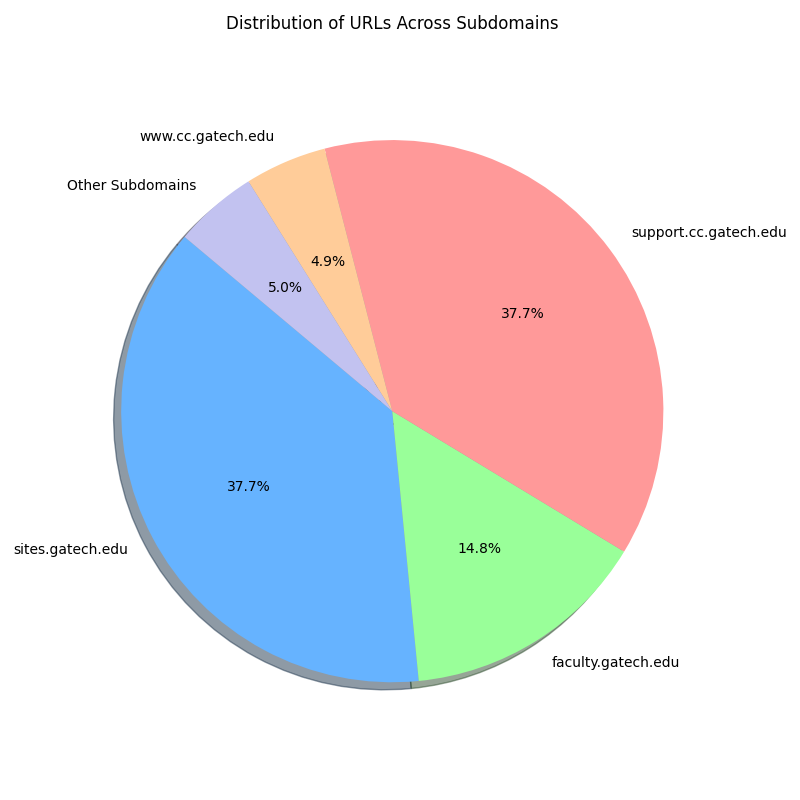
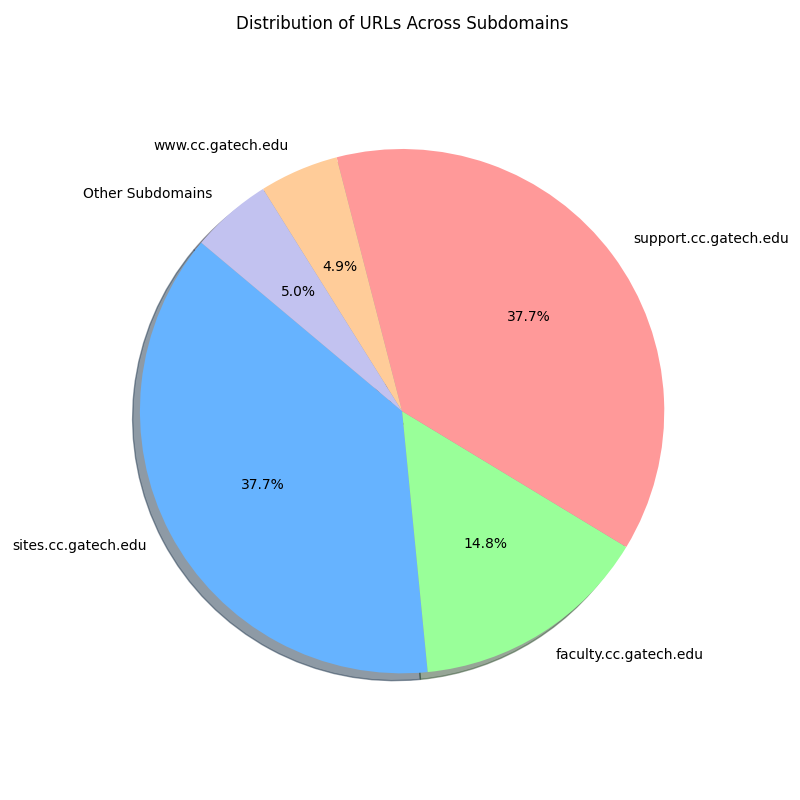
updating

diff --git a/satkp_crawler/spiders/satkp_spider.py b/satkp_crawler/spiders/satkp_spider.py
@@ -4,10 +4,11 @@ import matplotlib.pyplot as plt
 import json
 from urllib.parse import urljoin
 
+# Code inspired from the following sources:
 # Reference: https://docs.scrapy.org/en/latest/intro/tutorial.html
 # Reference: https://www.geeksforgeeks.org/implementing-web-scraping-python-scrapy/
 
-
+# Helpful doc links for Scrapy that I put here for my reference:
 # https://docs.scrapy.org/en/latest/topics/extensions.html#std-setting-CLOSESPIDER_TIMEOUT
 # https://www.scrapingbee.com/blog/crawling-python/
 # https://doc.scrapy.org/en/latest/topics/spiders.html#scrapy.Spider.start_requests
@@ -99,14 +100,11 @@ class SatkpSpider(scrapy.Spider):
         crawl_duration = end_time - self.crawler.stats.get_value('start_time').timestamp()
         crawl_speed = self.crawler.stats.get_value('pages_crawled') / (crawl_duration / 60)  # pages per minute
 
-        # Convert history lists to local variables for readability
         timestamps = self.crawler.stats.get_value('crawl_timestamps')
         pages_crawled_hist = self.crawler.stats.get_value('pages_crawled_history')
         urls_found_hist = self.crawler.stats.get_value('urls_found_history')
         keywords_hist = self.crawler.stats.get_value('keywords_extracted_history')
 
-        # Calculate the ratio: (#pages_crawled) / (#urls_found)
-        # If urls_found is zero at any index, ratio defaults to 0 to avoid division by zero
         ratio_list = []
         for pc, uf in zip(pages_crawled_hist, urls_found_hist):
             ratio_list.append(pc / uf if uf else 0)
@@ -114,40 +112,26 @@ class SatkpSpider(scrapy.Spider):
         plt.figure(figsize=(12, 10))
 
         # 1) Pages Crawled Over Time
-        plt.subplot(3, 2, 1)
-        plt.plot(timestamps, pages_crawled_hist)
-        plt.title('Pages Crawled Over Time')
-        plt.xlabel('Time (seconds)')
-        plt.ylabel('Pages Crawled')
+        plt.subplot(3, 2, 1); plt.plot(timestamps, pages_crawled_hist)
+        plt.title('Pages Crawled Over Time'); plt.xlabel('Time (seconds)'); plt.ylabel('Pages Crawled')
 
         # 2) URLs Found Over Time
-        plt.subplot(3, 2, 2)
-        plt.plot(timestamps, urls_found_hist)
-        plt.title('URLs Found Over Time')
-        plt.xlabel('Time (seconds)')
-        plt.ylabel('URLs Found')
+        plt.subplot(3, 2, 2); plt.plot(timestamps, urls_found_hist)
+        plt.title('URLs Found Over Time'); plt.xlabel('Time (seconds)'); plt.ylabel('URLs Found')
 
         # 3) Keywords Extracted Over Time
-        plt.subplot(3, 2, 3)
-        plt.plot(timestamps, keywords_hist)
-        plt.title('Keywords Extracted Over Time')
-        plt.xlabel('Time (seconds)')
-        plt.ylabel('Keywords Extracted')
+        plt.subplot(3, 2, 3); plt.plot(timestamps, keywords_hist)
+        plt.title('Keywords Extracted Over Time'); plt.xlabel('Time (seconds)'); plt.ylabel('Keywords Extracted')
 
         # 4) Crawl Speed (Pages per Minute) Over Time
         plt.subplot(3, 2, 4)
         crawl_speeds = [(p / (t / 60)) if t != 0 else 0 for p, t in zip(pages_crawled_hist, timestamps)]
-        plt.plot(timestamps, crawl_speeds)
-        plt.title('Crawl Speed Over Time')
-        plt.xlabel('Time (seconds)')
-        plt.ylabel('Pages per Minute')
+        plt.plot(timestamps, crawl_speeds); plt.title('Crawl Speed Over Time'); plt.xlabel('Time (seconds)'); plt.ylabel('Pages per Minute')
 
         # 5) Ratio of #URL Crawled / #URL Found Over Time
         plt.subplot(3, 2, 5)
         plt.plot(timestamps, ratio_list)
-        plt.title('Ratio (Crawled / Found) Over Time')
-        plt.xlabel('Time (seconds)')
-        plt.ylabel('Ratio')
+        plt.title('Ratio (Crawled / Found) Over Time'); plt.xlabel('Time (seconds)'); plt.ylabel('Ratio')
 
         plt.tight_layout()
         plt.savefig('crawl_statistics.png')

diff --git a/analysis.py b/analysis.py
@@ -5,32 +5,30 @@ import re
 import matplotlib.pyplot as plt
 
 def analyze_crawled_data(json_file="crawled_data.json"):
-    # Counters
+
     total_urls = 0
     cs_count = 0               # URLs containing "cs"
     tilde_count = 0            # URLs containing "~"
-    
-    # domain counters
     cc_subdomain_count = 0     # URLs within *.cc.gatech.edu
 
-    sites_subdomain_count = 0  # URLs within sites.gatech.edu
-    faculty_subdomain_count = 0 # URLs within faculty.gatech.edu
+    # I am incrementing below counters for subdomain analysis
+    sites_subdomain_count = 0  # URLs within sites.cc.gatech.edu
+    faculty_subdomain_count = 0 # URLs within faculty.cc.gatech.edu
     support_subdomain_count = 0 # URLs within support.cc.gatech.edu
     www_subdomain_count = 0     # URLs within www.cc.gatech.edu
     other_subdomain_count = 0   # URLs within other subdomains
     urls = []
 
-    # Load from JSON
     with open(json_file, "r") as f:
         data = json.load(f)
 
-    # data is dictionaries with url and keyword
+    # data: {"url": "https://www.cc.gatech.edu/", "keywords": "College of Computing"},
     for item in data:
         url = item.get("url", "")
         urls.append(url)
         total_urls += 1
         
-        # Classify based on substrings
+        # I am using simple regex and string comparision : inefficient in practical use
         if re.search(r'cs\d{4}', url):
             cs_count += 1
         if "~" in url:
@@ -82,16 +80,7 @@ def analyze_crawled_data(json_file="crawled_data.json"):
     print(f"www.cc.gatech.edu: {www_subdomain_count} ({www_subdomain_percent:.2f}%)")
     print(f"Other Subdomains: {other_subdomain_count} ({other_subdomain_percent:.2f}%)")
 
-    #print("\nCategories above 10% occurrence:")
-    #if cs_percent > 10:
-    #    print(" - URLs containing 'cs'")
-    #if tilde_percent > 10:
-    #    print(" - Faculty pages (~)")
-    #if cc_subdomain_percent > 10:
-    #    print(" - cc.gatech.edu subdomain")
-
-    # Prepare data for the pie chart
-    subdomains = ["sites.gatech.edu", "faculty.gatech.edu", "support.cc.gatech.edu", "www.cc.gatech.edu", "Other Subdomains"]
+    subdomains = ["sites.cc.gatech.edu", "faculty.cc.gatech.edu", "support.cc.gatech.edu", "www.cc.gatech.edu", "Other Subdomains"]
 
     subdomain_counts = [sites_subdomain_count, faculty_subdomain_count, support_subdomain_count, www_subdomain_count, other_subdomain_count]
 
@@ -101,8 +90,7 @@ def analyze_crawled_data(json_file="crawled_data.json"):
     plt.figure(figsize=(8, 8))
     plt.pie(subdomain_counts, labels=subdomains, autopct='%1.1f%%', startangle=140, colors=colors, shadow=True )
     plt.title("Distribution of URLs Across Subdomains")
-    plt.axis('equal')  # Ensures pie chart is circular
-    plt.tight_layout(); plt.savefig("subdomains_pie_chart.png"); plt.show()
+    plt.axis('equal'); plt.tight_layout(); plt.savefig("subdomains_pie_chart.png"); plt.show()
 
 
 if __name__ == "__main__":

diff --git a/main.py b/main.py
@@ -23,7 +23,7 @@ def run_spider():
         process.crawl(SatkpSpider)
         process.start()
         
-        # Restore original stdout
+        # Restore original stdout (not needed really)
         sys.stdout = original_stdout
         sys.stderr = original_stderr
 
